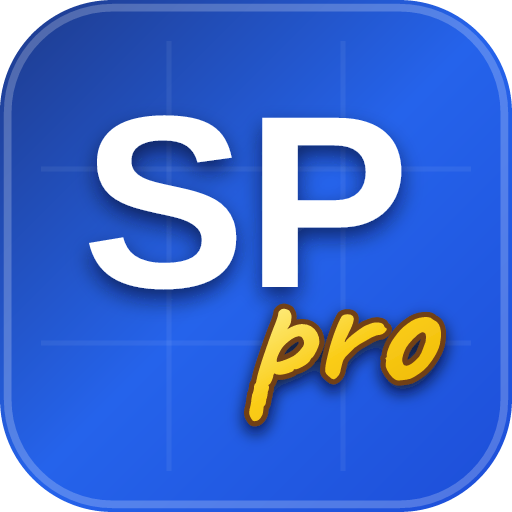
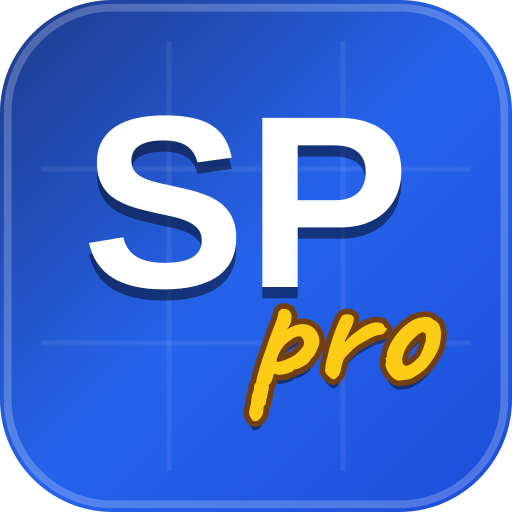
Deploying to gh-pages from @ krzjur-oss/SalePlanPro@d0003474c656b06260879b6397d18e98e951dcba 🚀

diff --git a/index.html b/index.html
@@ -19,7 +19,51 @@
     <link rel="stylesheet" crossorigin href="./assets/index-Dnp779A6.css">
   </head>
   <body class="bg-slate-100 text-slate-800">
-    <div id="root"></div>
+    <div id="root">
+      <!-- Ekran startowy podczas ładowania modułów aplikacji (Initial App Loading Splash) -->
+      <div style="position:fixed;inset:0;background-color:#0f172a;display:flex;flex-direction:column;align-items:center;justify-content:center;font-family:-apple-system,BlinkMacSystemFont,'Segoe UI',Roboto,sans-serif;user-select:none;z-index:99999;">
+        <div style="display:flex;flex-direction:column;align-items:center;gap:16px;">
+          <!-- Emblemat programu SalePlan Pro: Białe SP + Żółte 'pro' -->
+          <svg viewBox="0 0 100 100" width="96" height="96" style="filter:drop-shadow(0 10px 25px rgba(0,0,0,0.55));border-radius:22px;display:block;">
+            <defs>
+              <linearGradient id="splash-bg" x1="0%" y1="0%" x2="100%" y2="100%">
+                <stop offset="0%" stop-color="#1e3a8a" />
+                <stop offset="50%" stop-color="#2563eb" />
+                <stop offset="100%" stop-color="#1d4ed8" />
+              </linearGradient>
+            </defs>
+            <rect width="100" height="100" rx="22" fill="url(#splash-bg)"/>
+            <rect x="1.5" y="1.5" width="97" height="97" rx="20.5" fill="none" stroke="rgba(255,255,255,0.22)" stroke-width="1.5"/>
+            <line x1="8" y1="33" x2="92" y2="33" stroke="rgba(255,255,255,0.08)" stroke-width="1"/>
+            <line x1="8" y1="67" x2="92" y2="67" stroke="rgba(255,255,255,0.08)" stroke-width="1"/>
+            <line x1="33" y1="8" x2="33" y2="92" stroke="rgba(255,255,255,0.08)" stroke-width="1"/>
+            <line x1="67" y1="8" x2="67" y2="92" stroke="rgba(255,255,255,0.08)" stroke-width="1"/>
+            <!-- SP Shadow & White -->
+            <path d="M46.14 46.53Q46.14 48.78 45.32 50.62Q44.50 52.46 42.78 53.77Q41.05 55.09 38.37 55.80Q35.69 56.52 31.98 56.52Q28.70 56.52 26.20 55.93Q23.69 55.34 21.89 54.20Q20.10 53.05 18.99 51.35Q17.88 49.65 17.38 47.45L24.06 46.34Q24.34 47.45 24.88 48.36Q25.42 49.27 26.37 49.94Q27.32 50.61 28.74 50.97Q30.16 51.34 32.17 51.34Q35.69 51.34 37.55 50.27Q39.41 49.20 39.41 46.93Q39.41 45.57 38.66 44.70Q37.91 43.84 36.67 43.27Q35.43 42.71 33.81 42.34Q32.20 41.96 30.44 41.61Q29.03 41.28 27.63 40.93Q26.22 40.58 24.94 40.09Q23.66 39.59 22.56 38.91Q21.46 38.23 20.65 37.24Q19.84 36.24 19.39 34.91Q18.93 33.57 18.93 31.77Q18.93 29.30 19.91 27.55Q20.90 25.79 22.64 24.68Q24.39 23.56 26.80 23.05Q29.22 22.53 32.08 22.53Q35.31 22.53 37.62 23.04Q39.93 23.54 41.49 24.57Q43.05 25.60 43.95 27.16Q44.85 28.72 45.27 30.80L38.57 31.72Q38.05 29.59 36.47 28.51Q34.89 27.43 31.94 27.43Q30.11 27.43 28.90 27.75Q27.70 28.06 26.98 28.60Q26.27 29.14 25.96 29.86Q25.66 30.57 25.66 31.37Q25.66 32.59 26.24 33.37Q26.83 34.16 27.88 34.68Q28.94 35.21 30.40 35.57Q31.87 35.94 33.63 36.31Q35.17 36.64 36.70 37.00Q38.22 37.37 39.60 37.86Q40.98 38.35 42.18 39.05Q43.38 39.76 44.25 40.78Q45.13 41.80 45.64 43.20Q46.14 44.61 46.14 46.53M78.39 33.48Q78.39 35.61 77.68 37.59Q76.96 39.57 75.48 41.09Q74.01 42.62 71.73 43.52Q69.46 44.42 66.34 44.42L58.14 44.42L58.14 56.05L51.23 56.05L51.23 23.02L66.06 23.02Q69.23 23.02 71.55 23.79Q73.87 24.55 75.39 25.93Q76.91 27.31 77.65 29.23Q78.39 31.16 78.39 33.48M71.43 33.59Q71.43 31.04 69.89 29.71Q68.36 28.39 65.29 28.39L58.14 28.39L58.14 39.10L65.48 39.10Q67.02 39.10 68.14 38.70Q69.25 38.30 69.99 37.58Q70.73 36.85 71.08 35.83Q71.43 34.81 71.43 33.59" fill="#070e24" opacity="0.55" transform="translate(0, 2)"/>
+            <path d="M46.14 46.53Q46.14 48.78 45.32 50.62Q44.50 52.46 42.78 53.77Q41.05 55.09 38.37 55.80Q35.69 56.52 31.98 56.52Q28.70 56.52 26.20 55.93Q23.69 55.34 21.89 54.20Q20.10 53.05 18.99 51.35Q17.88 49.65 17.38 47.45L24.06 46.34Q24.34 47.45 24.88 48.36Q25.42 49.27 26.37 49.94Q27.32 50.61 28.74 50.97Q30.16 51.34 32.17 51.34Q35.69 51.34 37.55 50.27Q39.41 49.20 39.41 46.93Q39.41 45.57 38.66 44.70Q37.91 43.84 36.67 43.27Q35.43 42.71 33.81 42.34Q32.20 41.96 30.44 41.61Q29.03 41.28 27.63 40.93Q26.22 40.58 24.94 40.09Q23.66 39.59 22.56 38.91Q21.46 38.23 20.65 37.24Q19.84 36.24 19.39 34.91Q18.93 33.57 18.93 31.77Q18.93 29.30 19.91 27.55Q20.90 25.79 22.64 24.68Q24.39 23.56 26.80 23.05Q29.22 22.53 32.08 22.53Q35.31 22.53 37.62 23.04Q39.93 23.54 41.49 24.57Q43.05 25.60 43.95 27.16Q44.85 28.72 45.27 30.80L38.57 31.72Q38.05 29.59 36.47 28.51Q34.89 27.43 31.94 27.43Q30.11 27.43 28.90 27.75Q27.70 28.06 26.98 28.60Q26.27 29.14 25.96 29.86Q25.66 30.57 25.66 31.37Q25.66 32.59 26.24 33.37Q26.83 34.16 27.88 34.68Q28.94 35.21 30.40 35.57Q31.87 35.94 33.63 36.31Q35.17 36.64 36.70 37.00Q38.22 37.37 39.60 37.86Q40.98 38.35 42.18 39.05Q43.38 39.76 44.25 40.78Q45.13 41.80 45.64 43.20Q46.14 44.61 46.14 46.53M78.39 33.48Q78.39 35.61 77.68 37.59Q76.96 39.57 75.48 41.09Q74.01 42.62 71.73 43.52Q69.46 44.42 66.34 44.42L58.14 44.42L58.14 56.05L51.23 56.05L51.23 23.02L66.06 23.02Q69.23 23.02 71.55 23.79Q73.87 24.55 75.39 25.93Q76.91 27.31 77.65 29.23Q78.39 31.16 78.39 33.48M71.43 33.59Q71.43 31.04 69.89 29.71Q68.36 28.39 65.29 28.39L58.14 28.39L58.14 39.10L65.48 39.10Q67.02 39.10 68.14 38.70Q69.25 38.30 69.99 37.58Q70.73 36.85 71.08 35.83Q71.43 34.81 71.43 33.59" fill="#ffffff"/>
+            <!-- pro Shadow, Outline & Yellow -->
+            <path d="M50.01 82.24Q49.88 82.24 49.63 82.26Q49.39 82.27 49.22 81.97Q49.09 81.81 48.83 81.33Q48.56 80.85 48.73 79.99Q48.89 79.43 48.99 78.89Q49.09 78.34 49.09 78.08Q49.09 77.95 49.17 77.57Q49.25 77.19 49.25 77.02Q49.42 76.76 49.52 76.30Q49.62 75.84 49.62 75.47Q49.62 75.08 50.01 74.75Q50.01 74.48 50.13 74.09Q50.24 73.69 50.24 73.56Q50.34 73.10 50.69 71.93Q51.04 70.75 51.55 69.27Q52.06 67.78 52.55 66.37Q53.05 64.95 53.45 63.96Q53.84 63.03 54.11 62.24Q54.37 61.45 54.37 61.12Q54.37 60.99 54.44 60.90Q54.50 60.82 54.73 60.56Q55.06 60.23 55.61 60.31Q56.15 60.39 56.51 60.66Q56.78 61.09 56.89 61.43Q57.01 61.78 56.88 62.50Q56.88 63.00 56.65 63.41Q56.42 63.82 56.25 64.06Q56.09 64.29 56.12 64.29Q56.12 64.29 56.12 64.29Q57.57 63.40 58.74 63.31Q59.91 63.23 60.72 63.71Q61.53 64.19 61.96 65.01Q62.39 65.84 62.39 66.79Q62.39 67.19 62.12 67.85Q61.86 68.51 61.53 69.09Q61.20 69.67 61.00 69.86Q60.87 69.86 60.74 70.08Q60.61 70.29 60.47 70.56Q60.21 70.89 59.60 71.30Q58.99 71.71 58.36 71.96Q57.74 72.21 57.47 72.11L57.41 72.17Q57.31 72.24 57.31 72.40Q57.31 72.47 56.84 72.67Q56.38 72.87 55.76 73.03Q55.13 73.20 54.60 73.20Q53.91 73.20 53.61 72.93Q53.54 73.00 53.46 73.13Q53.38 73.26 53.38 73.36Q53.38 73.56 53.23 73.99Q53.08 74.42 52.88 74.76Q52.69 75.11 52.52 75.11L52.46 75.21Q52.39 75.31 52.52 75.47L52.52 75.84Q52.49 76.23 52.32 76.50Q52.32 76.76 52.22 77.29Q52.13 77.82 51.99 78.08Q51.99 78.48 51.88 78.86Q51.76 79.24 51.63 79.24Q51.50 79.27 51.47 79.65Q51.43 80.03 51.43 80.19Q51.40 81.02 50.90 81.63Q50.41 82.24 50.01 82.24M54.24 70.69Q54.50 70.69 55.19 70.46Q55.89 70.23 56.65 69.88Q57.41 69.53 57.83 69.17Q58.69 68.41 59.17 67.69Q59.65 66.96 59.09 66.07Q58.82 65.61 58.25 65.69Q57.67 65.77 56.98 66.23Q56.28 66.70 55.56 67.39Q55.16 67.82 54.83 68.38Q54.50 68.94 54.29 69.47Q54.07 70.00 54.04 70.33Q54.01 70.59 54.11 70.66Q54.17 70.69 54.24 70.69M64.40 73.66Q64.10 73.43 63.76 73.06Q63.41 72.70 63.51 72.04Q63.61 71.12 63.77 70.41Q63.94 69.70 64.17 68.77Q64.24 68.38 64.52 67.42Q64.80 66.46 65.19 65.34Q65.59 64.22 66.02 63.21Q66.45 62.21 66.78 61.71Q67.14 61.38 67.85 61.38Q68.56 61.38 68.82 61.65Q69.19 61.94 69.05 62.69Q68.92 63.43 68.13 64.98Q67.96 65.38 67.72 65.82Q67.47 66.27 67.37 66.53Q67.30 66.73 67.37 66.79Q67.37 66.79 67.44 66.79Q67.64 66.43 68.16 65.95Q68.69 65.47 69.29 65.01Q69.88 64.55 70.41 64.19Q70.94 63.82 71.13 63.73Q71.40 63.56 71.74 63.45Q72.09 63.33 72.22 63.26Q72.98 62.90 73.89 62.98Q74.80 63.07 74.99 63.56Q75.03 63.82 75.23 63.96L75.39 64.09Q75.52 64.09 75.55 64.19L75.55 64.29Q75.55 64.52 75.11 64.95Q74.66 65.38 74.14 65.41Q73.71 65.44 73.38 65.57Q73.05 65.71 72.59 65.90Q71.33 66.63 70.32 67.19Q69.32 67.75 68.26 68.91Q68.03 69.17 67.77 69.40Q67.50 69.63 67.24 70.06Q67.07 70.23 66.91 70.79Q66.74 71.35 66.63 71.86Q66.51 72.37 66.51 72.47L66.41 72.77Q66.32 73.10 66.08 73.39Q65.69 73.92 65.31 74.05Q64.93 74.19 64.40 73.66M77.90 74.32Q77.47 74.32 77.22 74.15Q76.97 73.99 76.61 73.69Q75.98 73.03 75.60 72.27Q75.22 71.51 75.32 70.95Q75.42 70.69 75.42 70.42L75.39 70.19Q75.26 70.06 75.29 70.00Q75.29 70.00 75.29 69.96Q75.36 69.93 75.42 69.80Q75.49 69.80 75.52 69.76Q75.59 69.70 75.55 69.43Q75.49 69.17 75.77 68.30Q76.05 67.42 76.54 66.63Q76.74 66.30 77.14 65.76Q77.54 65.21 78.01 64.67Q78.49 64.12 78.89 63.79Q79.71 63.10 80.42 62.67Q81.13 62.24 81.86 62.08Q82.58 61.91 83.36 61.91Q84.13 61.91 84.63 62.44Q85.39 62.77 85.70 63.33Q86.02 63.89 86.12 64.78Q86.21 65.77 85.92 67.21Q85.62 68.64 84.30 70.52Q83.48 71.71 82.68 72.37Q81.89 73.03 80.93 73.59Q80.24 74.05 79.45 74.15Q78.66 74.25 77.90 74.32M81.26 70.29Q81.99 69.67 82.30 68.91Q82.62 68.15 82.98 67.12Q83.11 66.93 83.16 66.46Q83.21 66.00 83.18 65.56Q83.14 65.11 82.95 65.05Q82.65 64.81 82.35 64.93Q82.06 65.05 81.59 65.38Q80.60 66.20 79.76 67.27Q78.92 68.35 78.59 69.90Q78.49 70.72 78.77 71.13Q79.05 71.55 79.70 71.37Q80.34 71.18 81.26 70.29" fill="#070e24" opacity="0.55" transform="translate(0, 1.8)"/>
+            <path d="M50.01 82.24Q49.88 82.24 49.63 82.26Q49.39 82.27 49.22 81.97Q49.09 81.81 48.83 81.33Q48.56 80.85 48.73 79.99Q48.89 79.43 48.99 78.89Q49.09 78.34 49.09 78.08Q49.09 77.95 49.17 77.57Q49.25 77.19 49.25 77.02Q49.42 76.76 49.52 76.30Q49.62 75.84 49.62 75.47Q49.62 75.08 50.01 74.75Q50.01 74.48 50.13 74.09Q50.24 73.69 50.24 73.56Q50.34 73.10 50.69 71.93Q51.04 70.75 51.55 69.27Q52.06 67.78 52.55 66.37Q53.05 64.95 53.45 63.96Q53.84 63.03 54.11 62.24Q54.37 61.45 54.37 61.12Q54.37 60.99 54.44 60.90Q54.50 60.82 54.73 60.56Q55.06 60.23 55.61 60.31Q56.15 60.39 56.51 60.66Q56.78 61.09 56.89 61.43Q57.01 61.78 56.88 62.50Q56.88 63.00 56.65 63.41Q56.42 63.82 56.25 64.06Q56.09 64.29 56.12 64.29Q56.12 64.29 56.12 64.29Q57.57 63.40 58.74 63.31Q59.91 63.23 60.72 63.71Q61.53 64.19 61.96 65.01Q62.39 65.84 62.39 66.79Q62.39 67.19 62.12 67.85Q61.86 68.51 61.53 69.09Q61.20 69.67 61.00 69.86Q60.87 69.86 60.74 70.08Q60.61 70.29 60.47 70.56Q60.21 70.89 59.60 71.30Q58.99 71.71 58.36 71.96Q57.74 72.21 57.47 72.11L57.41 72.17Q57.31 72.24 57.31 72.40Q57.31 72.47 56.84 72.67Q56.38 72.87 55.76 73.03Q55.13 73.20 54.60 73.20Q53.91 73.20 53.61 72.93Q53.54 73.00 53.46 73.13Q53.38 73.26 53.38 73.36Q53.38 73.56 53.23 73.99Q53.08 74.42 52.88 74.76Q52.69 75.11 52.52 75.11L52.46 75.21Q52.39 75.31 52.52 75.47L52.52 75.84Q52.49 76.23 52.32 76.50Q52.32 76.76 52.22 77.29Q52.13 77.82 51.99 78.08Q51.99 78.48 51.88 78.86Q51.76 79.24 51.63 79.24Q51.50 79.27 51.47 79.65Q51.43 80.03 51.43 80.19Q51.40 81.02 50.90 81.63Q50.41 82.24 50.01 82.24M54.24 70.69Q54.50 70.69 55.19 70.46Q55.89 70.23 56.65 69.88Q57.41 69.53 57.83 69.17Q58.69 68.41 59.17 67.69Q59.65 66.96 59.09 66.07Q58.82 65.61 58.25 65.69Q57.67 65.77 56.98 66.23Q56.28 66.70 55.56 67.39Q55.16 67.82 54.83 68.38Q54.50 68.94 54.29 69.47Q54.07 70.00 54.04 70.33Q54.01 70.59 54.11 70.66Q54.17 70.69 54.24 70.69M64.40 73.66Q64.10 73.43 63.76 73.06Q63.41 72.70 63.51 72.04Q63.61 71.12 63.77 70.41Q63.94 69.70 64.17 68.77Q64.24 68.38 64.52 67.42Q64.80 66.46 65.19 65.34Q65.59 64.22 66.02 63.21Q66.45 62.21 66.78 61.71Q67.14 61.38 67.85 61.38Q68.56 61.38 68.82 61.65Q69.19 61.94 69.05 62.69Q68.92 63.43 68.13 64.98Q67.96 65.38 67.72 65.82Q67.47 66.27 67.37 66.53Q67.30 66.73 67.37 66.79Q67.37 66.79 67.44 66.79Q67.64 66.43 68.16 65.95Q68.69 65.47 69.29 65.01Q69.88 64.55 70.41 64.19Q70.94 63.82 71.13 63.73Q71.40 63.56 71.74 63.45Q72.09 63.33 72.22 63.26Q72.98 62.90 73.89 62.98Q74.80 63.07 74.99 63.56Q75.03 63.82 75.23 63.96L75.39 64.09Q75.52 64.09 75.55 64.19L75.55 64.29Q75.55 64.52 75.11 64.95Q74.66 65.38 74.14 65.41Q73.71 65.44 73.38 65.57Q73.05 65.71 72.59 65.90Q71.33 66.63 70.32 67.19Q69.32 67.75 68.26 68.91Q68.03 69.17 67.77 69.40Q67.50 69.63 67.24 70.06Q67.07 70.23 66.91 70.79Q66.74 71.35 66.63 71.86Q66.51 72.37 66.51 72.47L66.41 72.77Q66.32 73.10 66.08 73.39Q65.69 73.92 65.31 74.05Q64.93 74.19 64.40 73.66M77.90 74.32Q77.47 74.32 77.22 74.15Q76.97 73.99 76.61 73.69Q75.98 73.03 75.60 72.27Q75.22 71.51 75.32 70.95Q75.42 70.69 75.42 70.42L75.39 70.19Q75.26 70.06 75.29 70.00Q75.29 70.00 75.29 69.96Q75.36 69.93 75.42 69.80Q75.49 69.80 75.52 69.76Q75.59 69.70 75.55 69.43Q75.49 69.17 75.77 68.30Q76.05 67.42 76.54 66.63Q76.74 66.30 77.14 65.76Q77.54 65.21 78.01 64.67Q78.49 64.12 78.89 63.79Q79.71 63.10 80.42 62.67Q81.13 62.24 81.86 62.08Q82.58 61.91 83.36 61.91Q84.13 61.91 84.63 62.44Q85.39 62.77 85.70 63.33Q86.02 63.89 86.12 64.78Q86.21 65.77 85.92 67.21Q85.62 68.64 84.30 70.52Q83.48 71.71 82.68 72.37Q81.89 73.03 80.93 73.59Q80.24 74.05 79.45 74.15Q78.66 74.25 77.90 74.32M81.26 70.29Q81.99 69.67 82.30 68.91Q82.62 68.15 82.98 67.12Q83.11 66.93 83.16 66.46Q83.21 66.00 83.18 65.56Q83.14 65.11 82.95 65.05Q82.65 64.81 82.35 64.93Q82.06 65.05 81.59 65.38Q80.60 66.20 79.76 67.27Q78.92 68.35 78.59 69.90Q78.49 70.72 78.77 71.13Q79.05 71.55 79.70 71.37Q80.34 71.18 81.26 70.29" fill="none" stroke="#713f12" stroke-width="2.2" stroke-linecap="round" stroke-linejoin="round"/>
+            <path d="M50.01 82.24Q49.88 82.24 49.63 82.26Q49.39 82.27 49.22 81.97Q49.09 81.81 48.83 81.33Q48.56 80.85 48.73 79.99Q48.89 79.43 48.99 78.89Q49.09 78.34 49.09 78.08Q49.09 77.95 49.17 77.57Q49.25 77.19 49.25 77.02Q49.42 76.76 49.52 76.30Q49.62 75.84 49.62 75.47Q49.62 75.08 50.01 74.75Q50.01 74.48 50.13 74.09Q50.24 73.69 50.24 73.56Q50.34 73.10 50.69 71.93Q51.04 70.75 51.55 69.27Q52.06 67.78 52.55 66.37Q53.05 64.95 53.45 63.96Q53.84 63.03 54.11 62.24Q54.37 61.45 54.37 61.12Q54.37 60.99 54.44 60.90Q54.50 60.82 54.73 60.56Q55.06 60.23 55.61 60.31Q56.15 60.39 56.51 60.66Q56.78 61.09 56.89 61.43Q57.01 61.78 56.88 62.50Q56.88 63.00 56.65 63.41Q56.42 63.82 56.25 64.06Q56.09 64.29 56.12 64.29Q56.12 64.29 56.12 64.29Q57.57 63.40 58.74 63.31Q59.91 63.23 60.72 63.71Q61.53 64.19 61.96 65.01Q62.39 65.84 62.39 66.79Q62.39 67.19 62.12 67.85Q61.86 68.51 61.53 69.09Q61.20 69.67 61.00 69.86Q60.87 69.86 60.74 70.08Q60.61 70.29 60.47 70.56Q60.21 70.89 59.60 71.30Q58.99 71.71 58.36 71.96Q57.74 72.21 57.47 72.11L57.41 72.17Q57.31 72.24 57.31 72.40Q57.31 72.47 56.84 72.67Q56.38 72.87 55.76 73.03Q55.13 73.20 54.60 73.20Q53.91 73.20 53.61 72.93Q53.54 73.00 53.46 73.13Q53.38 73.26 53.38 73.36Q53.38 73.56 53.23 73.99Q53.08 74.42 52.88 74.76Q52.69 75.11 52.52 75.11L52.46 75.21Q52.39 75.31 52.52 75.47L52.52 75.84Q52.49 76.23 52.32 76.50Q52.32 76.76 52.22 77.29Q52.13 77.82 51.99 78.08Q51.99 78.48 51.88 78.86Q51.76 79.24 51.63 79.24Q51.50 79.27 51.47 79.65Q51.43 80.03 51.43 80.19Q51.40 81.02 50.90 81.63Q50.41 82.24 50.01 82.24M54.24 70.69Q54.50 70.69 55.19 70.46Q55.89 70.23 56.65 69.88Q57.41 69.53 57.83 69.17Q58.69 68.41 59.17 67.69Q59.65 66.96 59.09 66.07Q58.82 65.61 58.25 65.69Q57.67 65.77 56.98 66.23Q56.28 66.70 55.56 67.39Q55.16 67.82 54.83 68.38Q54.50 68.94 54.29 69.47Q54.07 70.00 54.04 70.33Q54.01 70.59 54.11 70.66Q54.17 70.69 54.24 70.69M64.40 73.66Q64.10 73.43 63.76 73.06Q63.41 72.70 63.51 72.04Q63.61 71.12 63.77 70.41Q63.94 69.70 64.17 68.77Q64.24 68.38 64.52 67.42Q64.80 66.46 65.19 65.34Q65.59 64.22 66.02 63.21Q66.45 62.21 66.78 61.71Q67.14 61.38 67.85 61.38Q68.56 61.38 68.82 61.65Q69.19 61.94 69.05 62.69Q68.92 63.43 68.13 64.98Q67.96 65.38 67.72 65.82Q67.47 66.27 67.37 66.53Q67.30 66.73 67.37 66.79Q67.37 66.79 67.44 66.79Q67.64 66.43 68.16 65.95Q68.69 65.47 69.29 65.01Q69.88 64.55 70.41 64.19Q70.94 63.82 71.13 63.73Q71.40 63.56 71.74 63.45Q72.09 63.33 72.22 63.26Q72.98 62.90 73.89 62.98Q74.80 63.07 74.99 63.56Q75.03 63.82 75.23 63.96L75.39 64.09Q75.52 64.09 75.55 64.19L75.55 64.29Q75.55 64.52 75.11 64.95Q74.66 65.38 74.14 65.41Q73.71 65.44 73.38 65.57Q73.05 65.71 72.59 65.90Q71.33 66.63 70.32 67.19Q69.32 67.75 68.26 68.91Q68.03 69.17 67.77 69.40Q67.50 69.63 67.24 70.06Q67.07 70.23 66.91 70.79Q66.74 71.35 66.63 71.86Q66.51 72.37 66.51 72.47L66.41 72.77Q66.32 73.10 66.08 73.39Q65.69 73.92 65.31 74.05Q64.93 74.19 64.40 73.66M77.90 74.32Q77.47 74.32 77.22 74.15Q76.97 73.99 76.61 73.69Q75.98 73.03 75.60 72.27Q75.22 71.51 75.32 70.95Q75.42 70.69 75.42 70.42L75.39 70.19Q75.26 70.06 75.29 70.00Q75.29 70.00 75.29 69.96Q75.36 69.93 75.42 69.80Q75.49 69.80 75.52 69.76Q75.59 69.70 75.55 69.43Q75.49 69.17 75.77 68.30Q76.05 67.42 76.54 66.63Q76.74 66.30 77.14 65.76Q77.54 65.21 78.01 64.67Q78.49 64.12 78.89 63.79Q79.71 63.10 80.42 62.67Q81.13 62.24 81.86 62.08Q82.58 61.91 83.36 61.91Q84.13 61.91 84.63 62.44Q85.39 62.77 85.70 63.33Q86.02 63.89 86.12 64.78Q86.21 65.77 85.92 67.21Q85.62 68.64 84.30 70.52Q83.48 71.71 82.68 72.37Q81.89 73.03 80.93 73.59Q80.24 74.05 79.45 74.15Q78.66 74.25 77.90 74.32M81.26 70.29Q81.99 69.67 82.30 68.91Q82.62 68.15 82.98 67.12Q83.11 66.93 83.16 66.46Q83.21 66.00 83.18 65.56Q83.14 65.11 82.95 65.05Q82.65 64.81 82.35 64.93Q82.06 65.05 81.59 65.38Q80.60 66.20 79.76 67.27Q78.92 68.35 78.59 69.90Q78.49 70.72 78.77 71.13Q79.05 71.55 79.70 71.37Q80.34 71.18 81.26 70.29" fill="#facc15"/>
+          </svg>
+          <div style="text-align:center;">
+            <h1 style="color:#ffffff;font-size:22px;font-weight:900;letter-spacing:-0.03em;margin:0;display:flex;align-items:center;justify-content:center;gap:6px;">
+              <span>SalePlan</span>
+              <span style="color:#facc15;font-family:Georgia,cursive,serif;font-style:italic;font-weight:900;display:inline-block;transform:rotate(2deg);">pro</span>
+            </h1>
+            <p style="color:#94a3b8;font-size:11px;font-weight:600;margin:6px 0 0 0;letter-spacing:0.02em;">
+              Wczytywanie systemu planowania...
+            </p>
+          </div>
+          <div style="width:32px;height:32px;border:3px solid #3b82f6;border-top-color:transparent;border-radius:50%;animation:splash-spin 0.8s linear infinite;margin-top:4px;"></div>
+          <style>
+            @keyframes splash-spin {
+              to { transform: rotate(360deg); }
+            }
+          </style>
+        </div>
+      </div>
+    </div>
   </body>
 </html>
 

diff --git a/sw.js b/sw.js
@@ -6,7 +6,7 @@
 const BASE_PATH = self.location.pathname.substring(0, self.location.pathname.lastIndexOf('/') + 1);
 
 // Wstrzykiwane automatycznie podczas procesu budowania przez plugin Vite:
-const BUILD_ID = "v_mv6v7vxr_dcb5e15870";
+const BUILD_ID = "v_mv6vw18m_dcb5e15870";
 const CURRENT_ASSETS = ["assets/AssignRoomDropdown-BBbqhK-T.js","assets/CompanionWindowView-cvGEggoO.js","assets/DualScreenMasterView-DFD7FDbt.js","assets/Dyzury-Dcaq3hhl.js","assets/KreatorSzkoly-Biy_PXO5.js","assets/OProgramie-BxOyCcor.js","assets/PlanKlas-Dd0VNazN.js","assets/PlanSal-BZ4hvfcP.js","assets/PlanVariantsModal--Ft3Wj2w.js","assets/SnapshotManager-DZnnz6dQ.js","assets/Statystyki-Ciuz0YMe.js","assets/UstawieniaGeneratorow-zaRKzIpz.js","assets/Wydruki-DnRRUVBd.js","assets/adaptationDuty-CkY1ufja.js","assets/index-B3TWjuVT.js","assets/index-Dnp779A6.css","assets/roomUtils-gJMDp5Ow.js","assets/vendor-dnd-Dk37sCMx.js","assets/vendor-lucide-BMNCz33b.js","assets/vendor-motion-7o_NUGSZ.js","assets/vendor-react-M1a6ECPm.js","assets/vendor-recharts-BSefab-z.js","assets/vendor-zod-hv1ZMVFq.js"];
 
 // Nazwa cache unikalna dla danego builda
